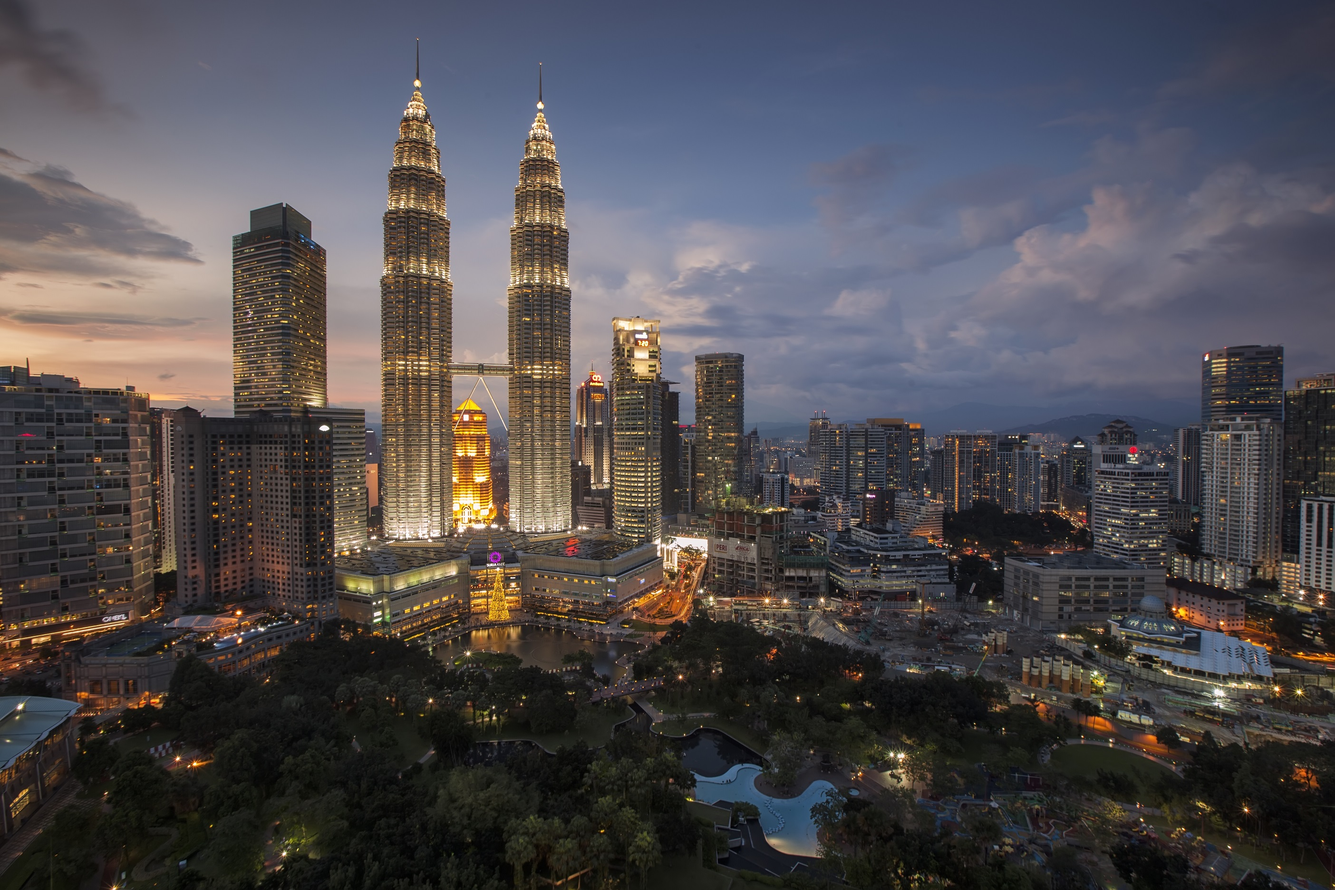
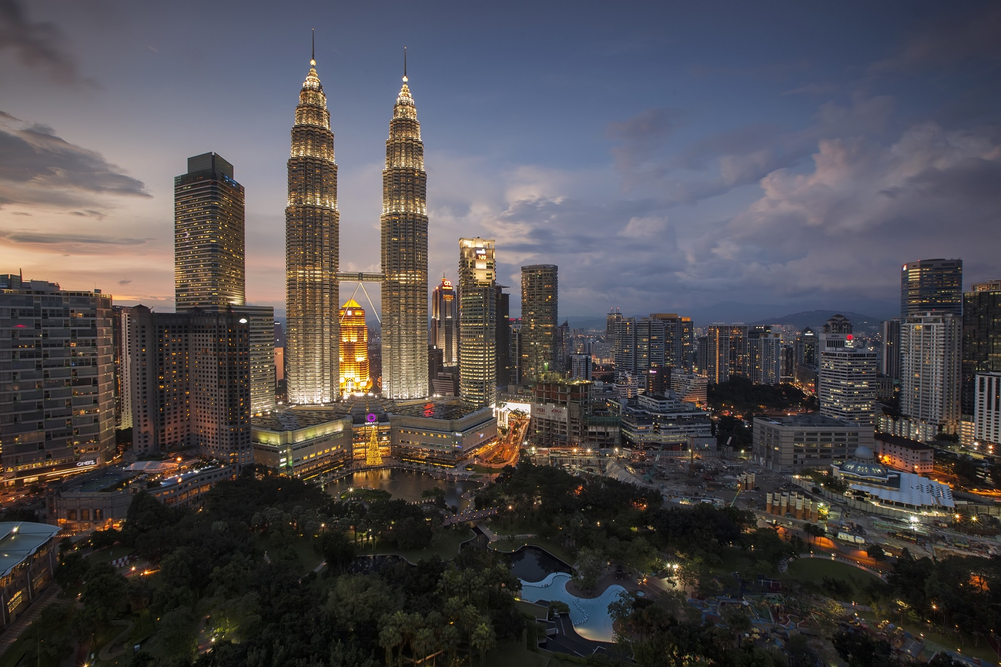
Revert "Revert "Resizing Images, Adding 404""
This reverts commit 75f37f94f61bccc5086b6892dd0f85090861484c.

diff --git a/404.html b/404.html
@@ -1,0 +1,10 @@
+---
+permalink: /404.html
+---
+<!DOCTYPE html>
+<html>
+<body>
+<h1>404: File Not Found</h1>
+<img src="http://punjabfinancial.com/PFLogo.png" alt="Punjab Financial" />
+</body>
+</html>
